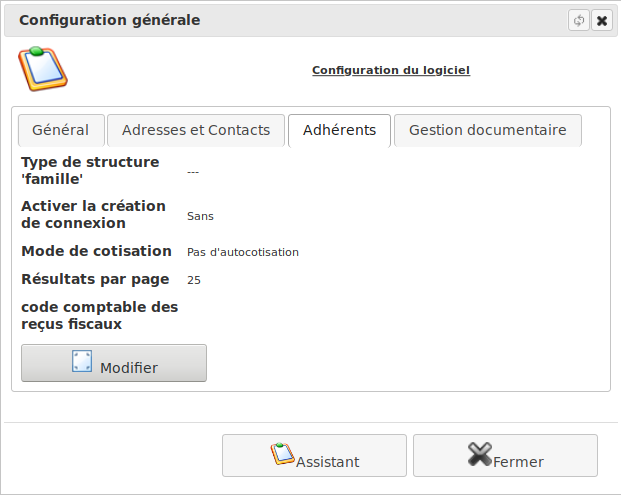
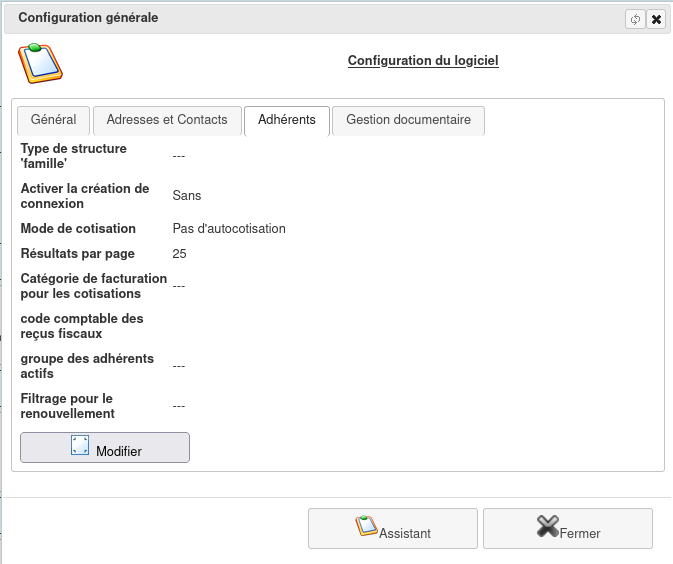
upgrade manual

diff --git a/diacamma/event/docs/fr/conf.py b/diacamma/event/docs/fr/conf.py
@@ -48,7 +48,7 @@ master_doc = 'index'
 
 # General information about the project.
 project = 'Diacamma évenement'
-copyright = '2021, sd-libre'
+copyright = '2023, sd-libre'
 author = 'sd-libre'
 
 # The version info for the project you're documenting, acts as replacement for
@@ -56,9 +56,9 @@ author = 'sd-libre'
 # built documents.
 #
 # The short X.Y version.
-version = '2.5'
+version = '2.6'
 # The full version, including alpha/beta/rc tags.
-release = '2.5.3.20083116'
+release = '2.6.8.21081812'
 
 # The language for content autogenerated by Sphinx. Refer to documentation
 # for a list of supported languages.

diff --git a/diacamma/member/docs/fr/conf.py b/diacamma/member/docs/fr/conf.py
@@ -48,7 +48,7 @@ master_doc = 'index'
 
 # General information about the project.
 project = 'Diacamma adhérent'
-copyright = '2021, sd-libre'
+copyright = '2023, sd-libre'
 author = 'sd-libre'
 
 # The version info for the project you're documenting, acts as replacement for
@@ -56,9 +56,9 @@ author = 'sd-libre'
 # built documents.
 #
 # The short X.Y version.
-version = '2.5'
+version = '2.6'
 # The full version, including alpha/beta/rc tags.
-release = '2.5.3.20083116'
+release = '2.6.8.21081812'
 
 # The language for content autogenerated by Sphinx. Refer to documentation
 # for a list of supported languages.

diff --git a/diacamma/event/docs/en/conf.py b/diacamma/event/docs/en/conf.py
@@ -48,7 +48,7 @@ master_doc = 'index'
 
 # General information about the project.
 project = 'Diacamma events'
-copyright = '2021, sd-libre'
+copyright = '2023, sd-libre'
 author = 'sd-libre'
 
 # The version info for the project you're documenting, acts as replacement for
@@ -56,9 +56,9 @@ author = 'sd-libre'
 # built documents.
 #
 # The short X.Y version.
-version = '2.5'
+version = '2.6'
 # The full version, including alpha/beta/rc tags.
-release = '2.5.3.20083116'
+release = '2.6.8.21081812'
 
 # The language for content autogenerated by Sphinx. Refer to documentation
 # for a list of supported languages.

diff --git a/diacamma/member/docs/en/conf.py b/diacamma/member/docs/en/conf.py
@@ -48,7 +48,7 @@ master_doc = 'index'
 
 # General information about the project.
 project = 'Diacamma member'
-copyright = '2021, sd-libre'
+copyright = '2023, sd-libre'
 author = 'sd-libre'
 
 # The version info for the project you're documenting, acts as replacement for
@@ -56,9 +56,9 @@ author = 'sd-libre'
 # built documents.
 #
 # The short X.Y version.
-version = '2.5'
+version = '2.6'
 # The full version, including alpha/beta/rc tags.
-release = '2.5.3.20083116'
+release = '2.6.8.21081812'
 
 # The language for content autogenerated by Sphinx. Refer to documentation
 # for a list of supported languages.

diff --git a/diacamma/asso/docs/en/conf.py b/diacamma/asso/docs/en/conf.py
@@ -48,7 +48,7 @@ master_doc = 'index'
 
 # General information about the project.
 project = 'Diacamma Asso'
-copyright = '2021, sd-libre'
+copyright = '2023, sd-libre'
 author = 'sd-libre'
 
 # The version info for the project you're documenting, acts as replacement for
@@ -56,9 +56,9 @@ author = 'sd-libre'
 # built documents.
 #
 # The short X.Y version.
-version = '2.5'
+version = '2.6'
 # The full version, including alpha/beta/rc tags.
-release = '2.5.3.20083116'
+release = '2.6.8.21081812'
 
 # The language for content autogenerated by Sphinx. Refer to documentation
 # for a list of supported languages.

diff --git a/diacamma/asso/docs/fr/conf.py b/diacamma/asso/docs/fr/conf.py
@@ -48,7 +48,7 @@ master_doc = 'index'
 
 # General information about the project.
 project = 'Diacamma Asso'
-copyright = '2021, sd-libre'
+copyright = '2023, sd-libre'
 author = 'sd-libre'
 
 # The version info for the project you're documenting, acts as replacement for
@@ -56,9 +56,9 @@ author = 'sd-libre'
 # built documents.
 #
 # The short X.Y version.
-version = '2.5'
+version = '2.6'
 # The full version, including alpha/beta/rc tags.
-release = '2.5.3.20083116'
+release = '2.6.8.21081812'
 
 # The language for content autogenerated by Sphinx. Refer to documentation
 # for a list of supported languages.

diff --git a/diacamma/asso/pdf/fr/conf.py b/diacamma/asso/pdf/fr/conf.py
@@ -88,7 +88,7 @@ master_doc = 'index'
 
 # General information about the project.
 project = 'Diacamma Asso'
-copyright = '2021, sd-libre'
+copyright = '2023, sd-libre'
 author = 'sd-libre'
 
 # The version info for the project you're documenting, acts as replacement for
@@ -96,9 +96,9 @@ author = 'sd-libre'
 # built documents.
 #
 # The short X.Y version.
-version = '2.5'
+version = '2.6'
 # The full version, including alpha/beta/rc tags.
-release = '2.5.3'
+release = '2.6.8'
 
 # The language for content autogenerated by Sphinx. Refer to documentation
 # for a list of supported languages.

diff --git a/diacamma/member/docs/fr/config.rst b/diacamma/member/docs/fr/config.rst
@@ -12,6 +12,18 @@ Vous pouvez modifier les paramètrages généraux relatifs à la gestion des adh
 
 	.. image:: conf_general.png
 
+- **Type de structure 'famille'** : Pour activer la gestion des adhérents par famille.  
+  Vous devez préciser ici comment les familles  seront classifiées(structure morales).
+- **Activer la création de connexion** : Permet d'attribuer un accès de connexion par adhérent.   
+  "Par adhérent": une action permettra d'attribué une connexion à tout les adhérents actifs.  
+  "Après demande": l'outil "mot de passe oublié" permet d'activé une connexion si l'adhérents associé est actif.
+- **Mode de cotisation** : Possibilité de créer une cotisation à la demande.
+- **Résultats par page** : Taille par défaut de la pagination des adhérents.
+- **Catégorie de facturation pour les cotisations** : Catégorie à appliquer pour la facturation des cotisations.
+- **code comptable des reçus fiscaux** : Préciser la liste des codes comptable soumis à défiscalisation.
+- **groupe des adhérents actifs** : Groupe de connexion associé à un adhérent actif (enlevé si non renouvelé).
+- **Filtrage pour le renouvellement** : Filtrage supplémentaire pour l'écran de renouvellement d'adhésion.
+
 
 Saisons et cotisations
 ----------------------
